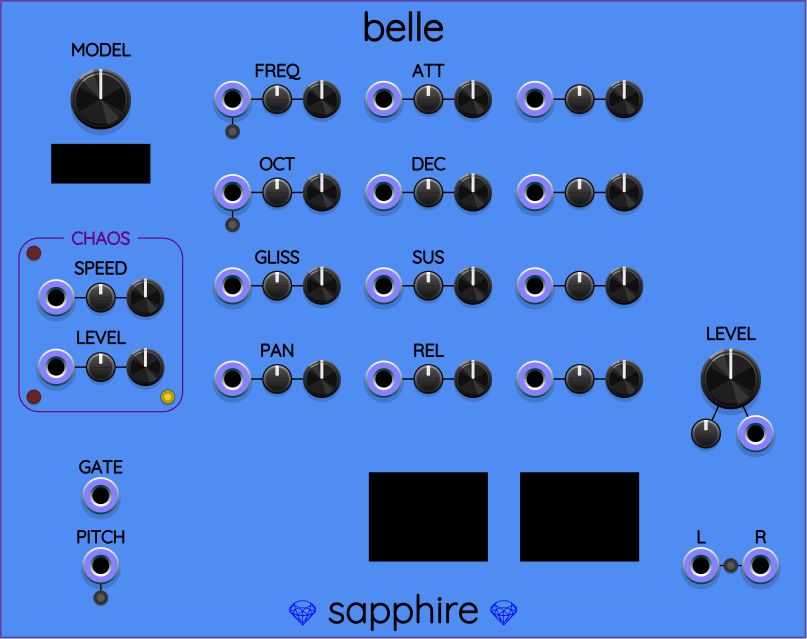
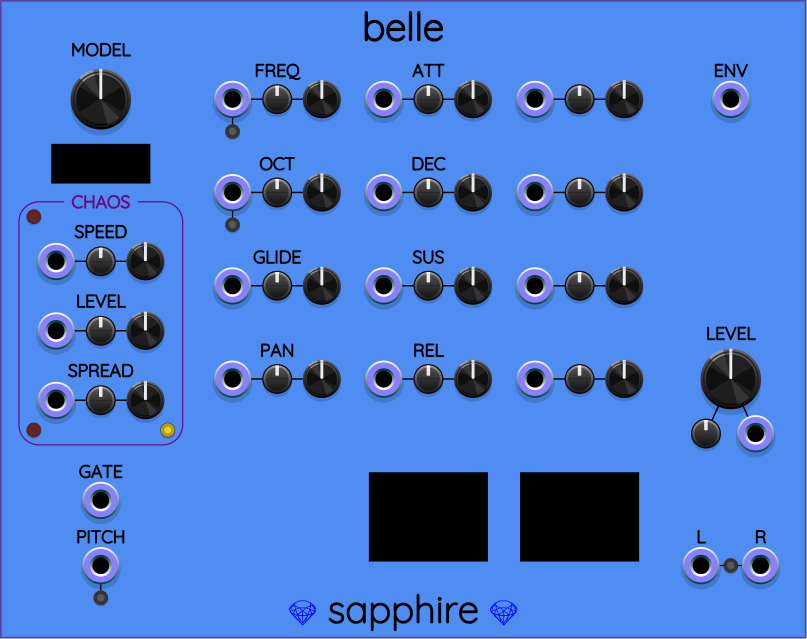
Belle: added SPREAD control to CHAOS box.
Belle's CHAOS box is now taller than Empath's.
The bottom now includes a bipolar SPREAD control.
In the middle, polyphonic voltages converge toward
two different values at the extreme values -1, +1.

The default value 0 causes maximum spreading
of values across all channels.

Changed region(s): [[0.0, 0.2973, 0.2478, 0.8326], [0.8674, 0.0892, 0.9294, 0.2081], [0.3098, 0.3865, 0.3717, 0.4163]]

diff --git a/util/make_sapphire_svg.py b/util/make_sapphire_svg.py
@@ -2515,13 +2515,18 @@ EMPATH_SPECTRUM_BOX_YC = (EMPATH_SPECTRUM_BOX_Y1 + EMPATH_SPECTRUM_BOX_Y2) / 2.0
 
 
 class ChaosBox:
-    def __init__(self, xmid:float, yTop:float) -> None:
+    def __init__(self, xmid:float, yTop:float, polyphonic:bool) -> None:
         self.xmid = xmid
+        self.isPolyphonic = polyphonic
         self.yChaosBoxTop = yTop
         self.yChaosSpeed = self.yChaosBoxTop + 12.0
         self.dyChaos = 14.0
         self.yChaosLevel = self.yChaosSpeed + self.dyChaos
-        self.yChaosBoxBottom = self.yChaosLevel + 9.0
+        if polyphonic:
+            self.yChaosSpread = self.yChaosLevel + self.dyChaos
+            self.yChaosBoxBottom = self.yChaosSpread + 9.0
+        else:
+            self.yChaosBoxBottom = self.yChaosLevel + 9.0
         self.dxChaosBox = 16.5
         self.xChaosBoxLeft  = xmid - self.dxChaosBox
         self.xChaosBoxRight = xmid + self.dxChaosBox
@@ -2576,6 +2581,10 @@ class ChaosBox:
         pl.append(CenteredControlTextPath(font, 'SPEED', self.xmid, self.yChaosSpeed - MULTITAP_DY_CONTROL_LOOP_LABEL))
         AddFlatControlGroup(pl, controls, self.xmid, self.yChaosLevel, 'clevel')
         pl.append(CenteredControlTextPath(font, 'LEVEL', self.xmid, self.yChaosLevel - MULTITAP_DY_CONTROL_LOOP_LABEL))
+        if self.isPolyphonic:
+            AddFlatControlGroup(pl, controls, self.xmid, self.yChaosSpread, 'cspread')
+            pl.append(CenteredControlTextPath(font, 'SPREAD', self.xmid, self.yChaosSpread - MULTITAP_DY_CONTROL_LOOP_LABEL))
+
         controls.add('chaos_stereo_button', self.xChaosStereoButton, self.yChaosStereoButton)
         controls.add('chaos_random_button', self.xChaosRandomizeButton, self.yChaosRandomizeButton)
         controls.add('chaos_freeze_button', self.xChaosFreezeButton, self.yChaosFreezeButton)
@@ -2613,7 +2622,7 @@ def GenerateEmpathInputPanel(cdict: ControlDict) -> int:
         AddVerticalStereoLabels(controls, 'input', xInputLabels, EMPATH_AUDIO_PORTS_Y1)
         AddVerticalStereoPorts(font, pl, controls, xInputPorts,  EMPATH_AUDIO_PORTS_Y1, 'audio_left_input', 'audio_right_input', 'IN')
         AddControlGroup(pl, controls, font, 'cascade', 'CASCADE', xmid, yCascade)
-        ChaosBox(xmid, 46.0).generate(pl, controls, font)
+        ChaosBox(xmid, 46.0, polyphonic=False).generate(pl, controls, font)
         controls.add('init_chain_button', 5.0, EMPATH_INIT_BUTTON_Y)
         controls.add('toggle_spectrum_button', xSpectrumButton, ySpectrumButton)
     return Save(panel, svgFileName)
@@ -2880,7 +2889,7 @@ def GenerateBellePanel(cdict: ControlDict) -> int:
         pl.append(SapphireInsignia(panel, font))
         controls.add('model_select', xBelle(0), yBelle(0))
         pl.append(CenteredControlTextPath(font, 'MODEL', xBelle(0), yBelle(0) - dyTextBigKnob))
-        addPort(0, 4.25, 'gate_input', 'GATE')
+        addPort(0, 4.3, 'gate_input', 'GATE')
         addPort(0, 5, 'pitch_input', 'PITCH')
         addPort(4, 5, 'audio_left_output',  'L', -dxPortFromCenter)
         addPort(4, 5, 'audio_right_output', 'R', +dxPortFromCenter)
@@ -2907,7 +2916,7 @@ def GenerateBellePanel(cdict: ControlDict) -> int:
             addControlGroup(3, m, 'mod' + str(m), '')
 
         AddControlGroup(pl, controls, font, 'level', 'LEVEL', xBelle(4), yBelle(3))
-        ChaosBox(xmidChaosBox, 48.0).generate(pl, controls, font)
+        ChaosBox(xmidChaosBox, yBelle(1.1), polyphonic=True).generate(pl, controls, font)
     return Save(panel, svgFileName)
 
 

diff --git a/src/belle_vcv.cpp b/src/belle_vcv.cpp
@@ -56,6 +56,8 @@ namespace Sapphire
             LEVEL_ATTEN,
             FREQ_MODE_BUTTON_PARAM,
             OCT_MODE_BUTTON_PARAM,
+            CHAOS_SPREAD_PARAM,
+            CHAOS_SPREAD_ATTEN,
 
             PARAMS_LEN
         };
@@ -76,6 +78,7 @@ namespace Sapphire
             PAN_CV_INPUT,
             GLIDE_CV_INPUT,
             LEVEL_CV_INPUT,
+            CHAOS_SPREAD_CV_INPUT,
 
             INPUTS_LEN
         };
@@ -259,8 +262,9 @@ namespace Sapphire
 
             void configChaosBox()
             {
-                configControlGroup("Chaos speed", CHAOS_SPEED_PARAM, CHAOS_SPEED_ATTEN, CHAOS_SPEED_CV_INPUT, -ChaosOctaveRange, +ChaosOctaveRange);
-                configControlGroup("Chaos level", CHAOS_LEVEL_PARAM, CHAOS_LEVEL_ATTEN, CHAOS_LEVEL_CV_INPUT, 0, 2, 1, " dB", -10, 20*3);
+                configControlGroup("Chaos speed",  CHAOS_SPEED_PARAM, CHAOS_SPEED_ATTEN, CHAOS_SPEED_CV_INPUT, -ChaosOctaveRange, +ChaosOctaveRange);
+                configControlGroup("Chaos level",  CHAOS_LEVEL_PARAM, CHAOS_LEVEL_ATTEN, CHAOS_LEVEL_CV_INPUT, 0, 2, 1, " dB", -10, 20*3);
+                configControlGroup("Chaos spread", CHAOS_SPREAD_PARAM, CHAOS_SPREAD_ATTEN, CHAOS_SPREAD_CV_INPUT, -1, +1, 0, "%", 0, 100);
                 configButton(CHAOS_RANDOMIZE_BUTTON_PARAM, "Randomize chaotic CV");
                 configButton(CHAOS_FREEZE_BUTTON_PARAM);
                 configButton(CHAOS_DISPLAY_VOLTAGES_BUTTON_PARAM);
@@ -365,6 +369,15 @@ namespace Sapphire
                     2
                 ));
 
+                const float spread = getControlValueVoltPerOctave(
+                    CHAOS_SPREAD_PARAM,
+                    CHAOS_SPREAD_ATTEN,
+                    CHAOS_SPREAD_CV_INPUT,
+                    -1,
+                    +1,
+                    0.2
+                );
+
                 if (!isChaosFrozen)
                 {
                     const float dt = SimulationTimeIncrement(sampleRateHz, speedKnob);
@@ -372,8 +385,6 @@ namespace Sapphire
                 }
 
                 batch = fountain.getBatch(chaosLevelKnob);
-
-                const float spread = 1;     // FIXFIXFIX: add knob for this
 
                 reportChaosPoly(FREQ_ATTEN,         spread, batch,  0);
                 reportChaosPoly(OCT_ATTEN,          spread, batch,  1);
@@ -714,8 +725,9 @@ namespace Sapphire
 
             void addChaosBox()
             {
-                addSnapVoctFlatControlGroup("cspeed", CHAOS_SPEED_PARAM, CHAOS_SPEED_ATTEN, CHAOS_SPEED_CV_INPUT);
-                addSapphireFlatControlGroup("clevel", CHAOS_LEVEL_PARAM, CHAOS_LEVEL_ATTEN, CHAOS_LEVEL_CV_INPUT);
+                addSnapVoctFlatControlGroup("cspeed",  CHAOS_SPEED_PARAM,  CHAOS_SPEED_ATTEN,  CHAOS_SPEED_CV_INPUT );
+                addSapphireFlatControlGroup("clevel",  CHAOS_LEVEL_PARAM,  CHAOS_LEVEL_ATTEN,  CHAOS_LEVEL_CV_INPUT );
+                addSapphireFlatControlGroup("cspread", CHAOS_SPREAD_PARAM, CHAOS_SPREAD_ATTEN, CHAOS_SPREAD_CV_INPUT);
                 addChaosRandomButton();
                 addChaosFreezeButton();
                 addChaosDisplayVoltagesButton();

diff --git a/src/sapphire_panel.cpp b/src/sapphire_panel.cpp
@@ -15,16 +15,19 @@ namespace Sapphire
             {"attack_knob",            {  95.360,   20.000}},
             {"audio_left_output",      { 141.320,  114.000}},
             {"audio_right_output",     { 153.320,  114.000}},
-            {"chaos_display_button",   {   6.820,   80.000}},
-            {"chaos_freeze_button",    {  33.820,   80.000}},
-            {"chaos_random_button",    {   6.820,   51.000}},
-            {"chaos_stereo_button",    {  33.820,   51.000}},
-            {"clevel_atten",           {  20.320,   74.000}},
-            {"clevel_cv",              {  11.320,   74.000}},
-            {"clevel_knob",            {  29.320,   74.000}},
-            {"cspeed_atten",           {  20.320,   60.000}},
-            {"cspeed_cv",              {  11.320,   60.000}},
-            {"cspeed_knob",            {  29.320,   60.000}},
+            {"chaos_display_button",   {   6.820,   86.680}},
+            {"chaos_freeze_button",    {  33.820,   86.680}},
+            {"chaos_random_button",    {   6.820,   43.680}},
+            {"chaos_stereo_button",    {  33.820,   43.680}},
+            {"clevel_atten",           {  20.320,   66.680}},
+            {"clevel_cv",              {  11.320,   66.680}},
+            {"clevel_knob",            {  29.320,   66.680}},
+            {"cspeed_atten",           {  20.320,   52.680}},
+            {"cspeed_cv",              {  11.320,   52.680}},
+            {"cspeed_knob",            {  29.320,   52.680}},
+            {"cspread_atten",          {  20.320,   80.680}},
+            {"cspread_cv",             {  11.320,   80.680}},
+            {"cspread_knob",           {  29.320,   80.680}},
             {"decay_atten",            {  86.360,   38.800}},
             {"decay_cv",               {  77.360,   38.800}},
             {"decay_knob",             {  95.360,   38.800}},
@@ -35,7 +38,7 @@ namespace Sapphire
             {"freq_cv",                {  46.880,   20.000}},
             {"freq_knob",              {  64.880,   20.000}},
             {"freq_mode_button",       {  46.880,   26.500}},
-            {"gate_input",             {  20.320,   99.900}},
+            {"gate_input",             {  20.320,  100.840}},
             {"glide_atten",            {  55.880,   57.600}},
             {"glide_cv",               {  46.880,   57.600}},
             {"glide_knob",             {  64.880,   57.600}},
